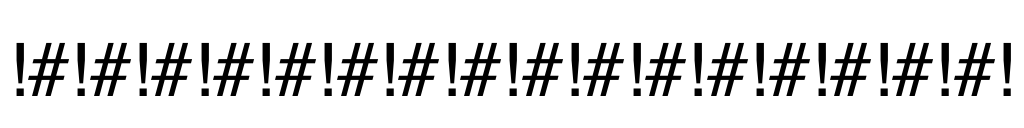
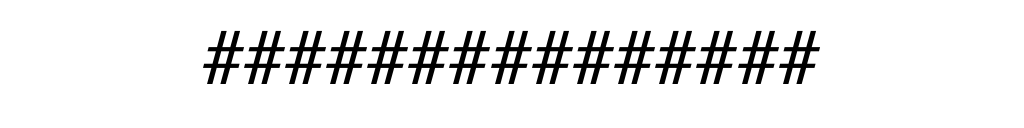
DelimiterImage functionality complete
- Allows for sending only 1 image to Google Vision API regardless of how many selection groups there are
- Logic to move the image into and out of position, it does not need to be added and removed from scene it can sit behind the camera
- Changed DelimiterImage actual image and size due to weird and inconsistent results - not combining DelimiterImages with CroppedMesh on ImageContainer makes it to where the framing can cut off too long of a delimiter in the render screenshot. Workaround is to make the delimiter shorter than the smallest SelectionGroup size
- Logic to deliminate text, send to appropriate GroupTextareas in the gui

Changed region(s): [[0.0, 0.25, 1.0, 0.75]]

diff --git a/Client/src/webgl/gtComponents/imageContainer.ts b/Client/src/webgl/gtComponents/imageContainer.ts
@@ -14,6 +14,7 @@ import Debug from "../utils/debug";
 import Stopwatch from "../utils/stopWatch";
 import { debugImageContainer } from "../utils/debug/debugImageContainer";
 import GtUtils from "../utils/gtUtils";
+import World from "../levels/world";
 
 export default class ImageContainer {
   private experience!: Experience;
@@ -23,6 +24,7 @@ export default class ImageContainer {
   private camera!: Camera;
   private sizes!: Sizes;
   public input!: Input;
+  private world!: World;
   public debug?: Debug;
 
   public geometry!: THREE.BoxGeometry;
@@ -30,6 +32,7 @@ export default class ImageContainer {
   public mesh?: THREE.Mesh;
 
   private rotationSpeed!: number;
+  private isRotationDisabled!: boolean;
   private lerpFactor!: number;
   public targetRotation!: THREE.Vector2;
 
@@ -42,11 +45,15 @@ export default class ImageContainer {
     this.initializeFields();
 
     // Events
+    Emitter.on("stitchBoxes", () => {
+      this.isRotationDisabled = true;
+    });
     Emitter.on("screenshotImage", () => {
       this.screenshotImage();
     });
     Emitter.on("resetImage", () => {
       this.resetImage();
+      this.isRotationDisabled = false;
     });
     Emitter.on("mouseMove", (event) => {
       // TODO: debug
@@ -70,10 +77,12 @@ export default class ImageContainer {
     this.scene = this.experience.scene;
     this.camera = this.experience.camera;
     this.sizes = this.experience.sizes;
+    this.world = this.experience.world;
     this.input = this.experience.input;
 
     // Class fields
     this.rotationSpeed = 0.005;
+    this.isRotationDisabled = false;
     this.lerpFactor = 1;
     // TODO: fix the rotation lerp on selectionGroupManager to sync with this
     // this.lerpFactor = 0.1;
@@ -137,6 +146,11 @@ export default class ImageContainer {
     const desiredHeight = 1080;
     const desiredWidth = (desiredHeight * this.sizes.width) / this.sizes.height;
 
+    // Unhide the delimiterImages if present in the frame
+    this.world.delimiterImages.forEach((delimiterImage) => {
+      delimiterImage.mesh!.visible = true;
+    });
+
     // Render and take the screenshot
     this.renderer.instance.setSize(desiredWidth, desiredHeight); // Set the desired resolution
     this.renderer.instance.render(this.scene, this.camera.orthographicCamera);
@@ -158,6 +172,11 @@ export default class ImageContainer {
       originalRendererSize.width,
       originalRendererSize.height
     );
+
+    // Rehide the delimiterImages if present in the frame
+    this.world.delimiterImages.forEach((delimiterImage) => {
+      delimiterImage.mesh!.visible = false;
+    });
 
     // Send image to Google Vision at the end of the call to avoid zoom warp out effect caused by delay from response
     await this.sendImageToVisionAPI(base64Image);
@@ -181,13 +200,19 @@ export default class ImageContainer {
     this.camera.orthographicCamera.zoom = 1;
     this.camera.targetZoom = 1;
 
-    // Reset the textArea in the GUI
-    this.input.dashboardTextarea!.value = "";
+    // Reset the textAreas in the GUI
+    this.input.dashboardTextarea0!.value = "";
+    this.input.dashboardTextarea1!.value = "";
+    this.input.dashboardTextarea2!.value = "";
   }
 
   private mouseMove(event: MouseEvent) {
     // Do not continue if not in image adjust mode or regardless if you in IAM are but pressing right click (move over rotate)
-    if (!this.input.isShiftLeftPressed || this.input.isRightClickPressed) {
+    if (
+      !this.input.isShiftLeftPressed ||
+      this.input.isRightClickPressed ||
+      this.isRotationDisabled
+    ) {
       return;
     }
 
@@ -228,12 +253,48 @@ export default class ImageContainer {
       const result = await response.json();
 
       // TODO: remove after debug
-      console.log("vision result: ", result);
+      // console.log("vision result: ", result);
 
-      this.input.dashboardTextarea!.value =
-        result.responses[0].fullTextAnnotation.text;
+      // this.input.dashboardTextarea!.value =
+      //   result.responses[0].fullTextAnnotation.text;
+
+      this.separateResultByDelimiter(
+        result.responses[0].fullTextAnnotation.text
+      );
     } catch (error) {
       console.error("Error sending image to Vision API:", error);
+    }
+  }
+
+  private separateResultByDelimiter(fullResultText: string) {
+    // Define the delimiter in the image
+    const delimiter = "###############";
+
+    // Split the string into groups
+    const groups = fullResultText.split(delimiter).map((group) => group.trim());
+
+    // Reference dashboard text areas
+    const dashboardTextAreas: HTMLTextAreaElement[] = [
+      document.getElementById("dashboardTextarea0") as HTMLTextAreaElement,
+      document.getElementById("dashboardTextarea1") as HTMLTextAreaElement,
+      document.getElementById("dashboardTextarea2") as HTMLTextAreaElement,
+    ];
+
+    // Assign groups to text areas
+    groups.forEach((group, index) => {
+      const textArea = dashboardTextAreas[index];
+      if (textArea) {
+        textArea.value = group;
+      }
+    });
+
+    // Clear unused text areas
+    for (let i = groups.length; i < dashboardTextAreas.length; i++) {
+      const textArea = dashboardTextAreas[i];
+      if (textArea) {
+        // Clear the value for unused text areas
+        textArea.value = "";
+      }
     }
   }
 
@@ -266,6 +327,12 @@ export default class ImageContainer {
 
     this.stopwatch.reset();
     this.stopwatch.start();
+
+    this.input.dashboardTextarea0!.value = "";
+    this.input.dashboardTextarea1!.value = "";
+    this.input.dashboardTextarea2!.value = "";
+
+    this.isRotationDisabled = false;
   }
 
   public update() {
@@ -315,6 +382,7 @@ export default class ImageContainer {
     }
 
     // Mesh disposal
+    this.scene.remove(this.mesh);
     GtUtils.disposeMeshHelper(this.mesh);
 
     // Deconstucted mesh components disposal

diff --git a/Client/src/webgl/gtComponents/selectionGroupManager.ts b/Client/src/webgl/gtComponents/selectionGroupManager.ts
@@ -71,6 +71,9 @@ export default class SelectionGroupManager {
     });
     Emitter.on("resetImage", () => {
       this.destroy();
+      this.world.delimiterImages.forEach((delimiterImage) => {
+        delimiterImage.resetPosition();
+      });
     });
 
     // Debug
@@ -311,7 +314,7 @@ export default class SelectionGroupManager {
     let combinedMesh: THREE.Mesh | null = null;
 
     // Stack the meshes of the groups
-    meshGroups.forEach((group) => {
+    meshGroups.forEach((group, index) => {
       // Create the cropped mesh and calculate its height
       group.croppedMesh = this.createCropFromSelectionGroup(group.selections);
       group.croppedMeshHeight = this.getMeshHeight(group.croppedMesh);
@@ -323,34 +326,6 @@ export default class SelectionGroupManager {
       // Update total height for the next mesh
       totalHeightToAdd += group.croppedMeshHeight;
 
-      /* ------------------------------------ a ----------------------------------- */
-      // TODO: remove after debug
-      // Example usage
-      // Store the render's resolution
-      const originalRendererSize = new THREE.Vector2();
-      this.experience.renderer.instance.getSize(originalRendererSize);
-
-      const desiredHeight = 1080;
-      const desiredWidth =
-        (desiredHeight * this.sizes.width) / this.sizes.height;
-
-      this.experience.renderer.instance.setSize(desiredWidth, desiredHeight); // Set screenshot resolution
-
-      const screenBoundingBoxes = this.getScreenBoundingBox(
-        group.croppedMesh,
-        this.camera.orthographicCamera,
-        desiredWidth,
-        desiredHeight
-      );
-      console.log("screenBoundingBoxes", screenBoundingBoxes); // Array of bounding boxes for each mesh
-
-      // Reset render to original size
-      this.experience.renderer.instance.setSize(
-        originalRendererSize.width,
-        originalRendererSize.height
-      );
-      /* ------------------------------------ a ----------------------------------- */
-
       // Combine the current mesh with the previous ones using CSG.union()
       if (combinedMesh === null) {
         // If it's the first mesh, initialize the combined mesh
@@ -360,6 +335,27 @@ export default class SelectionGroupManager {
         combinedMesh.updateMatrix();
         group.croppedMesh.updateMatrix();
         combinedMesh = CSG.union(combinedMesh, group.croppedMesh);
+      }
+
+      // Add a DelimiterImage mesh between croppedMeshes, if applicable
+      if (index < meshGroups.length - 1) {
+        const delimiterImage = this.world.delimiterImages[index];
+
+        if (delimiterImage && delimiterImage.mesh) {
+          // Calculate the delimiter image height
+          const delimiterHeight = this.getMeshHeight(delimiterImage.mesh);
+
+          // Position the delimiterImage mesh
+          delimiterImage.mesh.position.y =
+            totalHeightToAdd + delimiterHeight / 2;
+          delimiterImage.mesh.position.z = 0;
+
+          // Make mesh invisible until screenshot
+          // delimiterImage.mesh.visible = false;
+
+          // Update total height for the next mesh
+          totalHeightToAdd += delimiterHeight;
+        }
       }
     });
 
@@ -783,6 +779,7 @@ export default class SelectionGroupManager {
   }
 
   public destroyVisualCueMesh() {
+    this.scene.remove(this.visualCueMesh);
     GtUtils.disposeMeshHelper(this.visualCueMesh);
   }
 

diff --git a/Client/src/webgl/gtComponents/delimiterImage.ts b/Client/src/webgl/gtComponents/delimiterImage.ts
@@ -16,6 +16,8 @@ export default class DelimiterImage {
   public materials!: THREE.MeshBasicMaterial[];
   public mesh?: THREE.Mesh;
 
+  private initialPosition!: THREE.Vector3;
+
   constructor() {
     // Init
     this.initializeFields();
@@ -30,6 +32,8 @@ export default class DelimiterImage {
     this.experience = Experience.getInstance();
     this.resources = this.experience.resources;
     this.scene = this.experience.scene;
+
+    this.initialPosition = new THREE.Vector3(0, 0, 20);
   }
 
   /* ---------------------------- Instance methods ---------------------------- */
@@ -38,8 +42,9 @@ export default class DelimiterImage {
       this.resources.items.delimiterImage.image.width /
       this.resources.items.delimiterImage.image.height;
 
+    // Adjust size of mesh in scene that texture will be applied to. This will effect spacing between selectionGroups
     const boxDepth = 1;
-    const boxHeight = 1;
+    const boxHeight = 0.05;
     let boxWidth = 1;
 
     if (textureAspectRatio >= 1) {
@@ -68,14 +73,18 @@ export default class DelimiterImage {
     // Create mesh, add to scene, update matrix local position for CSG
     this.mesh = new THREE.Mesh(this.geometry, this.materials);
 
-    // Move mesh behind the camera
-    this.mesh.position.setY(2);
-    // this.mesh.position.setZ(20);
+    // Move mesh behind the camera for initial position
+    this.mesh.position.copy(this.initialPosition);
 
     this.scene.add(this.mesh);
 
     // // Fix for debug since mesh is not always set
     // this.imageRotation = this.convertRotation(this.mesh.rotation.z);
+  }
+
+  public resetPosition() {
+    // Move mesh behind the camera for initial position
+    this.mesh!.position.copy(this.initialPosition);
   }
 
   public destroy() {

diff --git a/Client/src/webgl/utils/input.ts b/Client/src/webgl/utils/input.ts
@@ -49,7 +49,9 @@ export default class Input {
   public dashboardGuiGlobal: HTMLElement | null;
   public loginGuiGlobal: HTMLElement | null;
 
-  public dashboardTextarea: HTMLTextAreaElement | null;
+  public dashboardTextarea0: HTMLTextAreaElement | null;
+  public dashboardTextarea1: HTMLTextAreaElement | null;
+  public dashboardTextarea2: HTMLTextAreaElement | null;
   public dashboardImageName: HTMLLabelElement | null;
 
   public keys: Key[];
@@ -94,9 +96,16 @@ export default class Input {
     this.dashboardGuiGlobal = document.getElementById("gui");
     this.loginGuiGlobal = document.getElementById("loginPage");
 
-    this.dashboardTextarea = document.getElementById(
-      "guiTextArea0"
+    this.dashboardTextarea0 = document.getElementById(
+      "dashboardTextarea0"
     ) as HTMLTextAreaElement;
+    this.dashboardTextarea1 = document.getElementById(
+      "dashboardTextarea1"
+    ) as HTMLTextAreaElement;
+    this.dashboardTextarea2 = document.getElementById(
+      "dashboardTextarea2"
+    ) as HTMLTextAreaElement;
+
     this.dashboardImageName = document.getElementById(
       "gtImageName"
     ) as HTMLLabelElement;

diff --git a/Client/src/components/EditorDashboard.tsx b/Client/src/components/EditorDashboard.tsx
@@ -232,11 +232,11 @@ export default defineComponent({
         <section class="mt-4 mb-4">
           <GroupTextArea
             color="green"
-            id="guiTextArea0"
+            id="dashboardTextarea0"
             textAreaRef={textAreaRef}
           />
-          <GroupTextArea color="red" id="guiTextArea0" />
-          <GroupTextArea color="blue" id="guiTextArea0" />
+          <GroupTextArea color="red" id="dashboardTextarea1" />
+          <GroupTextArea color="blue" id="dashboardTextarea2" />
         </section>
 
         {/* Mail type, Image Action buttons */}

diff --git a/Client/src/webgl/levels/world.ts b/Client/src/webgl/levels/world.ts
@@ -48,6 +48,10 @@ export default class World {
 
       this.camera.targetPostion.set(0, 0, 10);
       this.camera.targetZoom = 1;
+
+      this.delimiterImages.forEach((delimiterImage) => {
+        delimiterImage.resetPosition();
+      });
     });
 
     // Debug
